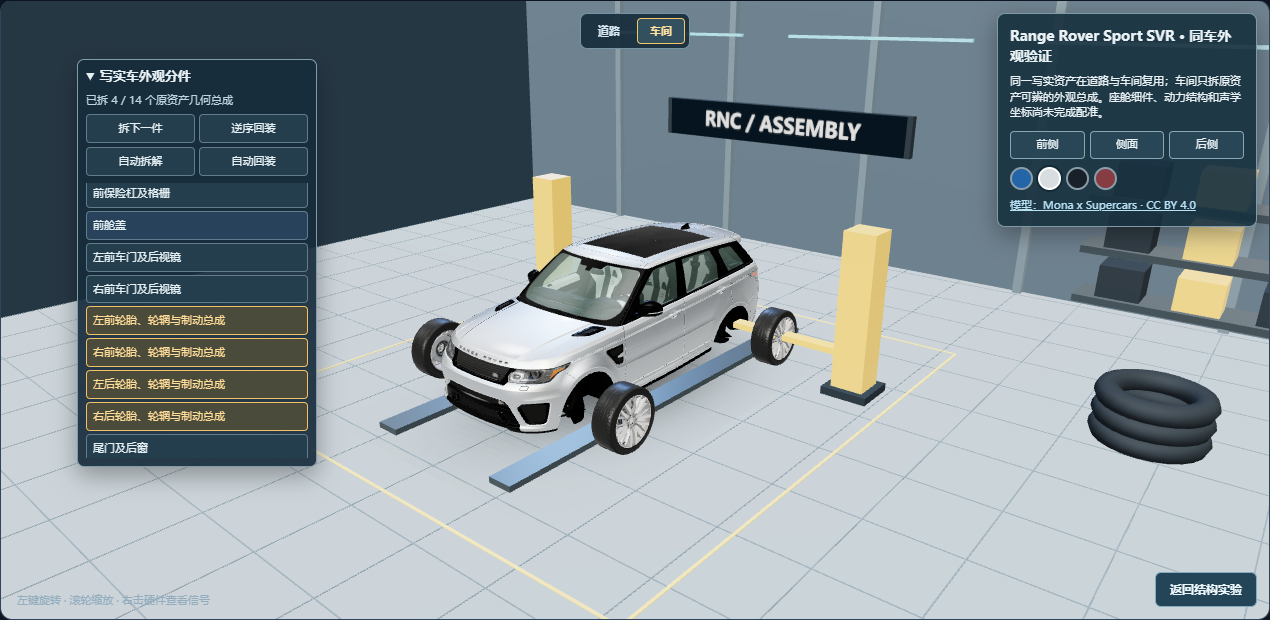
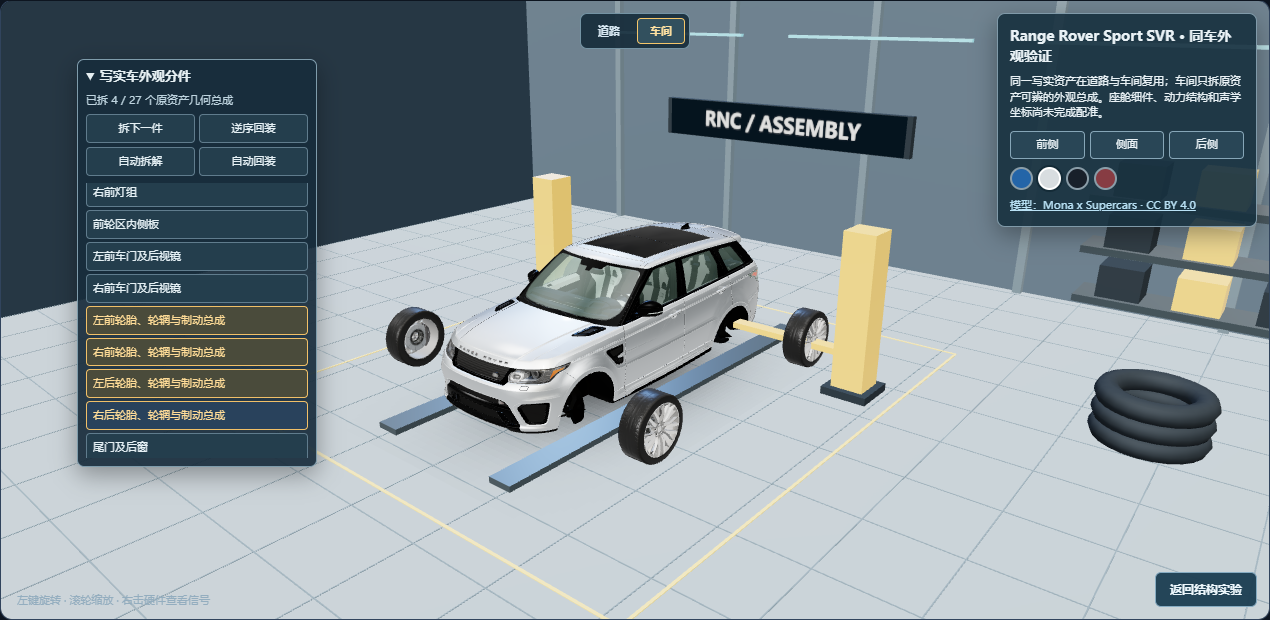
feat(a2): expose authored SUV body and engine bay groups

diff --git a/src/team-a/viewer/showroom-model.ts b/src/team-a/viewer/showroom-model.ts
@@ -36,6 +36,14 @@ export interface ShowroomModel {
   dispose(): void;
 }
 
+interface AuthoredPartSpec {
+  id: string;
+  name: string;
+  labels: readonly string[];
+  materials?: readonly string[];
+  offset: readonly [number, number, number];
+}
+
 export async function loadShowroomModel(vehicle: VehicleKind): Promise<ShowroomModel> {
   // The hybrids still use the exterior-only ICE reference until licensed,
   // powertrain-matched assets are reviewed. The UI discloses this fallback.
@@ -86,9 +94,14 @@ export async function loadShowroomModel(vehicle: VehicleKind): Promise<ShowroomM
 
   // This source has material-split meshes. Regroup only visibly distinct
   // authored assemblies; a mesh/material count must never become a part count.
-  const partSpecs = asset.id === 'range-rover' ? [
+  const partSpecs: AuthoredPartSpec[] = asset.id === 'range-rover' ? [
     { id: 'front-bumper', name: '前保险杠及格栅', labels: ['BumperF6', 'BumperChassisF6', 'Grille6'], offset: [0, 0.15, 0.85] },
     { id: 'hood', name: '前舱盖', labels: ['Hood6'], offset: [0, 0.85, 0.30] },
+    { id: 'fender-front-left', name: '左前翼子板', labels: ['FenderFL6'], offset: [0.65, 0.26, 0.18] },
+    { id: 'fender-front-right', name: '右前翼子板', labels: ['FenderFR6'], offset: [-0.65, 0.26, 0.18] },
+    { id: 'headlight-left', name: '左前灯组', labels: ['HeadLightL6'], offset: [0.40, 0.25, 0.48] },
+    { id: 'headlight-right', name: '右前灯组', labels: ['HeadLightR6'], offset: [-0.40, 0.25, 0.48] },
+    { id: 'front-inner-panels', name: '前轮区内侧板', labels: ['FendersChassisF6'], offset: [0, 0.48, 0.54] },
     { id: 'door-left', name: '左前车门及后视镜', labels: ['DoorL6', 'DoorL', 'MirrorBaseL6', 'MirrorL6'], offset: [0.86, 0.28, 0] },
     { id: 'door-right', name: '右前车门及后视镜', labels: ['DoorR6', 'DoorR', 'MirrorBaseR6', 'MirrorR6'], offset: [-0.86, 0.28, 0] },
     { id: 'wheel-fl', name: '左前轮胎、轮辋与制动总成', labels: [], offset: [0.72, 0.12, 0.12] },
@@ -97,12 +110,21 @@ export async function loadShowroomModel(vehicle: VehicleKind): Promise<ShowroomM
     { id: 'wheel-rr', name: '右后轮胎、轮辋与制动总成', labels: [], offset: [-0.72, 0.12, -0.12] },
     { id: 'tailgate', name: '尾门及后窗', labels: ['Boot6', 'Boot', 'Spoiler6'], offset: [0, 0.65, -0.55] },
     { id: 'rear-bumper', name: '后保险杠与扩散器', labels: ['BumperR6', 'BumperChassisR6', 'Diffuser6'], offset: [0, 0.14, -0.85] },
+    { id: 'taillight-left', name: '左后灯组', labels: ['TailLightL6'], offset: [0.36, 0.24, -0.48] },
+    { id: 'taillight-right', name: '右后灯组', labels: ['TailLightR6'], offset: [-0.36, 0.24, -0.48] },
+    { id: 'rear-quarters', name: '后侧围外板', labels: ['FendersR6'], offset: [0, 0.58, -0.55] },
+    { id: 'rear-inner-panels', name: '后轮区内侧板', labels: ['FendersChassisR6'], offset: [0, 0.32, -0.40] },
+    { id: 'side-skirts', name: '两侧门槛饰板', labels: ['Skirts6'], offset: [0, -0.28, 0] },
     { id: 'roof', name: '车顶面板', labels: ['Roof6'], offset: [0, 0.85, 0] },
+    { id: 'glazing', name: '车窗玻璃组', labels: ['Glass6'], offset: [0, 0.82, 0] },
+    { id: 'engine-bay', name: '机舱动力几何（原模型）', labels: [], materials: ['Chassis6/rM_Engine_Max1'], offset: [0, 0.75, 0.18] },
     { id: 'steering-wheel', name: '方向盘总成', labels: ['SteeringWheel5'], offset: [0, 0.40, 0.30] },
     { id: 'interior', name: '座舱内饰总成', labels: ['Interior5'], offset: [0, 0.72, 0] },
+    { id: 'chassis-shell', name: '车身与底盘主体网格', labels: [], materials: ['Chassis6/rM_Chassis_Max1'], offset: [0, -0.38, 0] },
     { id: 'exhaust', name: '排气总成', labels: ['Exhausts6'], offset: [0, -0.30, -0.20] },
-  ] as const : [];
+  ] : [];
   const semanticMeshes = new Map<string, THREE.Mesh[]>();
+  const materialMeshes = new Map<string, THREE.Mesh[]>();
   exterior.traverse(object => {
     const mesh = object as THREE.Mesh;
     if (!mesh.isMesh) return;
@@ -110,13 +132,18 @@ export async function loadShowroomModel(vehicle: VehicleKind): Promise<ShowroomM
     while (ancestor && !/^r[A-Za-z]/.test(ancestor.name)) ancestor = ancestor.parent;
     const label = /^r([^_]+)_/.exec(ancestor?.name ?? '')?.[1];
     if (!label) return;
+    for (const material of Array.isArray(mesh.material) ? mesh.material : [mesh.material]) {
+      const key = `${label}/${material.name}`;
+      const bucket = materialMeshes.get(key) ?? [];
+      bucket.push(mesh); materialMeshes.set(key, bucket);
+    }
     const bucket = semanticMeshes.get(label) ?? [];
     bucket.push(mesh); semanticMeshes.set(label, bucket);
   });
   const partPivots = new Map<string, { pivot: THREE.Group; origin: THREE.Vector3; offset: THREE.Vector3 }>();
   group.updateMatrixWorld(true);
   for (const spec of partSpecs) {
-    const meshes = [...spec.labels.flatMap(label => semanticMeshes.get(label) ?? []), ...(spec.id.startsWith('wheel-') ? wheelMeshes.get(spec.id.slice(6) as WheelCorner) ?? [] : [])];
+    const meshes = [...spec.labels.flatMap(label => semanticMeshes.get(label) ?? []), ...(spec.materials?.flatMap(material => materialMeshes.get(material) ?? []) ?? []), ...(spec.id.startsWith('wheel-') ? wheelMeshes.get(spec.id.slice(6) as WheelCorner) ?? [] : [])];
     if (meshes.length === 0) throw new Error(`Missing authored assembly ${spec.id}`);
     const partBounds = new THREE.Box3();
     for (const mesh of meshes) partBounds.expandByObject(mesh);
@@ -161,7 +188,7 @@ export async function loadShowroomModel(vehicle: VehicleKind): Promise<ShowroomM
     setPartProgress(id: string, progress: number) {
       const part = partPivots.get(id);
       if (!part) return;
-      part.pivot.position.copy(part.origin).addScaledVector(part.offset, THREE.MathUtils.clamp(progress, 0, 1));
+      part.pivot.position.copy(part.origin).addScaledVector(part.offset, THREE.MathUtils.clamp(progress, 0, 1) * 1.6);
     },
     setPaint(color: string) { for (const paint of paints) paint.color.set(color); },
     dispose() {

diff --git a/docs/evidence/A2/A2-FULL-016/qa-real-parts.playwright-cli.js b/docs/evidence/A2/A2-FULL-016/qa-real-parts.playwright-cli.js
@@ -28,6 +28,12 @@ async (page) => {
   await panel.getByRole('button', { name: '自动回装' }).click();
   await page.waitForTimeout(1200);
   const afterAuto = await panel.locator('p').innerText();
+  await panel.locator('[data-part="hood"]').click();
+  await panel.locator('[data-part="engine-bay"]').click();
+  await page.waitForTimeout(850);
+  const afterEngine = await panel.locator('p').innerText();
+  await page.locator('#lab-viewer').screenshot({ path: 'docs/evidence/A2/A2-FULL-016/real-workshop-engine-bay.png' });
+  await page.locator('#lab-reset').click();
   await panel.locator('[data-part="interior"]').click();
   await page.waitForTimeout(850);
   await page.locator('#lab-viewer').screenshot({ path: 'docs/evidence/A2/A2-FULL-016/real-workshop-interior.png' });
@@ -38,6 +44,16 @@ async (page) => {
   const afterFourWheels = await panel.locator('p').innerText();
   await page.locator('#lab-viewer').screenshot({ path: 'docs/evidence/A2/A2-FULL-016/real-workshop-four-wheels.png' });
   await page.locator('#lab-reset').click();
+  await panel.getByRole('button', { name: '自动拆解' }).click();
+  await page.waitForFunction(() => document.querySelector('.lab-showroom-assembly p')?.textContent?.startsWith('已拆 27'), undefined, { timeout: 30000 });
+  await page.waitForTimeout(850);
+  const afterFullDetach = await panel.locator('p').innerText();
+  await page.locator('#lab-viewer').screenshot({ path: 'docs/evidence/A2/A2-FULL-016/real-workshop-all-parts.png' });
+  await panel.getByRole('button', { name: '自动回装' }).click();
+  await page.waitForFunction(() => document.querySelector('.lab-showroom-assembly p')?.textContent?.startsWith('已拆 0'), undefined, { timeout: 30000 });
+  await page.waitForTimeout(850);
+  const afterFullRestore = await panel.locator('p').innerText();
+  await page.locator('#lab-viewer').screenshot({ path: 'docs/evidence/A2/A2-FULL-016/real-workshop-restored.png' });
   const meshAudit = await page.evaluate(async () => {
     const { loadShowroomModel } = await import('/src/team-a/viewer/showroom-model.ts');
     const model = await loadShowroomModel('ice');
@@ -80,8 +96,9 @@ async (page) => {
     await page.getByRole('button', { name: '返回四类动力教学模型和声学实验' }).click();
   }
   const externalResources = await page.evaluate(() => performance.getEntriesByType('resource').filter(resource => !resource.name.startsWith(location.origin)).map(resource => resource.name));
-  if (count !== 14 || !roadStageVisible || !markersHidden || !afterTwo.startsWith('已拆 2') || stateAcrossStages !== afterTwo || !afterOne.startsWith('已拆 1') || !afterAuto.startsWith('已拆 0') || !afterReset.startsWith('已拆 0') || !afterFourWheels.startsWith('已拆 4') || meshAudit.meshes !== 180 || meshAudit.triangles !== 74127 || meshAudit.rows.some(row => row.meshCount < 1 || row.displacement < 0.25 || (row.id.startsWith('wheel-') && row.meshCount !== 7)) || !meshAudit.resourcesDisposedOnce || !narrowClosed || !narrowUsable || fallbackPartsHidden.some(row => !row.hidden) || errors.length || externalResources.length) {
-    throw new Error(JSON.stringify({ count, roadStageVisible, markersHidden, afterTwo, stateAcrossStages, afterOne, afterAuto, afterReset, afterFourWheels, meshAudit, narrowClosed, narrowUsable, fallbackPartsHidden, errors, externalResources }));
+  const authoredCounts = { 'fender-front-left': 4, 'fender-front-right': 4, 'headlight-left': 6, 'headlight-right': 6, 'front-inner-panels': 1, 'taillight-left': 5, 'taillight-right': 5, 'rear-quarters': 5, 'rear-inner-panels': 2, 'side-skirts': 4, glazing: 6, 'engine-bay': 1, 'chassis-shell': 1 };
+  if (count !== 27 || !roadStageVisible || !markersHidden || !afterTwo.startsWith('已拆 2') || stateAcrossStages !== afterTwo || !afterOne.startsWith('已拆 1') || !afterAuto.startsWith('已拆 0') || !afterEngine.startsWith('已拆 2') || !afterReset.startsWith('已拆 0') || !afterFourWheels.startsWith('已拆 4') || !afterFullDetach.startsWith('已拆 27') || !afterFullRestore.startsWith('已拆 0') || meshAudit.meshes !== 180 || meshAudit.triangles !== 74127 || meshAudit.rows.some(row => row.meshCount < 1 || row.displacement < 0.25 || (row.id.startsWith('wheel-') && row.meshCount !== 7) || (row.id in authoredCounts && row.meshCount !== authoredCounts[row.id])) || !meshAudit.resourcesDisposedOnce || !narrowClosed || !narrowUsable || fallbackPartsHidden.some(row => !row.hidden) || errors.length || externalResources.length) {
+    throw new Error(JSON.stringify({ count, roadStageVisible, markersHidden, afterTwo, stateAcrossStages, afterOne, afterAuto, afterEngine, afterReset, afterFourWheels, afterFullDetach, afterFullRestore, meshAudit, narrowClosed, narrowUsable, fallbackPartsHidden, errors, externalResources }));
   }
-  return { count, roadStageVisible, markersHidden, afterTwo, stateAcrossStages, afterOne, afterAuto, afterReset, afterFourWheels, meshAudit, narrowClosed, narrowUsable, fallbackPartsHidden, errors, externalResources };
+  return { count, roadStageVisible, markersHidden, afterTwo, stateAcrossStages, afterOne, afterAuto, afterEngine, afterReset, afterFourWheels, afterFullDetach, afterFullRestore, meshAudit, narrowClosed, narrowUsable, fallbackPartsHidden, errors, externalResources };
 }

diff --git a/docs/evidence/A2/A2-FULL-016/qa-real-parts-production.playwright-cli.js b/docs/evidence/A2/A2-FULL-016/qa-real-parts-production.playwright-cli.js
@@ -19,6 +19,6 @@ async (page) => {
   const after=await panel.locator('p').innerText();
   const loaded=await page.evaluate(()=>performance.getEntriesByType('resource').filter(resource=>resource.name.includes('range-rover-sport-svr')&&resource.name.startsWith(location.origin)).length);
   const external=await page.evaluate(()=>performance.getEntriesByType('resource').filter(resource=>!resource.name.startsWith(location.origin)).map(resource=>resource.name));
-  if(partCount!==14||!before.startsWith('已拆 2')||after!==before||loaded!==1||errors.length||external.length)throw new Error(JSON.stringify({partCount,before,after,loaded,errors,external}));
+  if(partCount!==27||!before.startsWith('已拆 2')||after!==before||loaded!==1||errors.length||external.length)throw new Error(JSON.stringify({partCount,before,after,loaded,errors,external}));
   return {partCount,before,after,loaded,errors,external};
 }

diff --git a/开发记录.md b/开发记录.md
@@ -10,16 +10,16 @@
 同车资产结构初筛：[审计脚本及结果](docs/evidence/A2/A2-FULL-016/README.md)显示 Range Rover 171 mesh/512 node，可从父节点名提取37类候选分组，但 mesh 本身全为通用名称，转轴/真实可拆性未验；Model Y 84 mesh/86 node 的 mesh 全为通用名且无语义父节点。两款均不能直接等同参考图的28个可动分组，更不能证明内部动力结构相同。下一步先选一车人工核对可分件与锚点，再让道路/车间/声学切片改用这一套同车几何；HEV/EREV 与目标核显仍待完成。
 同批坐标核验：按现展示比例，Range Rover车顶1.770 m、Model Y仅1.416 m，而全局MIC锚点固定`y=1.65 m`，在Model Y车顶以上0.234 m；[可复现GLB坐标脚本](docs/evidence/A2/A2-FULL-016/audit-spatial-fit.mjs)和计算结果见A2证据。把GLB直接罩在旧教学车上的暂存实验还出现BEV旧格栅/门板穿出车身，故未提交这条叠模代码。正确方向是车型专属几何/物理锚点契约，与B组路径同步；A2单独移动3D标记会破坏声学一致性。需A1/集成协调者定稿共管接口，B组重验路径，A2以相同布局重建同车分件和场景。
 同批可运行切片：A2 viewer 已加入三维道路/车间，原四类教学车共用场景切换；车间可点选部件、逐件/自动拆解、暂停、逆序回装与复位。可动组分别33/33/36/37，拆下座椅/前门后MIC/门扬声器显示引导端点跟随，切场景保持状态。`pnpm check` 69/69测试、类型/边界/生产构建通过；浏览器四车、窄屏及拆装流程通过，脚本与原图见[A2本批证据](docs/evidence/A2/A2-FULL-016/README.md)。这仍是原创低多边形教学车，品牌GLB与内部尚非同车，用户图示的最终质感/精度与车型专属声学锚点未达标；A1/B/shared运行文件未改。
-同批写实车进一步推进：ICE Range Rover GLB 在道路和车间复用同一实例，14个有原资产几何归属的外观/轮端总成可拆解/回装。初步按父节点无法分开的三张合并轮系网格，经逐三角形审计确认四轮互不跨界，现按真实四轮位置拆出轮胎、制动盘、卡钳和轮辋；原171 mesh变为运行时180 mesh，总数74,127三角形不变。后门与独立座椅仍不能可靠分出。拆装、场景往返、窄屏及同源加载脚本/原图见[A2本批证据](docs/evidence/A2/A2-FULL-016/README.md)。把旧教学内部塞进该车的实渲染显示头枕与仪表台明显穿模，已否决并留失败原图。当前仅写实**外观/轮端**同车跨场景，内部、动力、四类车型和声学锚点未统一；写实模式继续隐藏物理标记，避免视觉与B组计算相矛盾。A1/B/shared运行文件未改。
+同批写实车进一步推进：ICE Range Rover GLB 在道路和车间复用同一实例，27个有原资产几何归属的外观/轮端/机舱可见网格总成可拆解/回装。三张合并轮系网格逐三角形分出四轮；前后灯、前翼子板、机舱可见网格、玻璃和车身/底盘主体按原节点/材质分组；原171 mesh变为运行时180 mesh，总数74,127三角形不变。27是美术资产分组数，**不是完整机械零件精度**；后门、独立座椅和传动/悬架件仍不能可靠分出。完整27/27自动拆出、0/27逆序回装、场景往返、窄屏及同源加载脚本/原图见[A2本批证据](docs/evidence/A2/A2-FULL-016/README.md)。把旧教学内部塞进该车的实渲染显示头枕与仪表台明显穿模，已否决并留失败原图。当前仅写实**外观/轮端/机舱可见网格**同车跨场景，独立座椅、精确动力、四类车型和声学锚点未统一；写实模式继续隐藏物理标记，避免视觉与B组计算相矛盾。A1/B/shared运行文件未改。
 
-四轮续批验证：`pnpm check` 类型/边界/69项测试/生产构建通过；开发页真实浏览器检查14组非空、四轮分别拆出4/14、道路/车间状态保持、逆序/自动回装、窄屏及三种非ICE车型隐藏写实分件，页面异常与外网请求均0；生产预览复核14组、前舱盖+左前轮跨场景保持2/14、同源GLB仅加载一次。运行时180份几何及30份材质恰好释放一次，74,127三角形未变。证据和限制见[A2-FULL-016](docs/evidence/A2/A2-FULL-016/README.md)。
+本批验证：`pnpm check` 类型/边界/69项测试/生产构建通过；开发页真实浏览器检查27组非空、四轮分别拆出4/27、机舱几何单独拆出、27/27自动拆解和0/27完整回装、道路/车间状态保持、窄屏及三种非ICE车型隐藏写实分件，页面异常与外网请求均0；生产预览复核27组、前舱盖+左前轮跨场景保持2/27、同源GLB仅加载一次。运行时180份几何及30份材质恰好释放一次，74,127三角形未变。证据和限制见[A2-FULL-016](docs/evidence/A2/A2-FULL-016/README.md)。
 
 旧阶段PR #5/#6已合入**原仓库main** `1bb8a23`；完整目标当前整合在 fork/main 和[A1/整合草稿PR #23](https://github.com/KnowCooker/RNC_3D_SIMULATION/pull/23)，A2新独立进度在[草稿PR #24](https://github.com/KnowCooker/RNC_3D_SIMULATION/pull/24)。旧完整目标阶段PR #7～#22已关闭为被当前整合提交包含的历史批次，并非合入原仓库main。#20的源码已在 fork/main 和 #24，旧 PR 已关闭、旧远端分支已删除；fork 只保留 main、A1、A2 当前三分支。[当前分支与备份](docs/coordination/CURRENT_BRANCHES.md)记录接续入口。各批已验证源码SHA仍由其证据报告固定。两端读取[协作入口](docs/coordination/README.md)、[A1](docs/coordination/A1.md)、[A2](docs/coordination/A2.md)，继续按各自目录开发。
 
 | 责任 | 本轮已有实现 | 实际验证 | 下一步 |
 | --- | --- | --- | --- |
 | A1 | 原实验界面/16秒回放、持续仿真与试听；#21暂停态移动场重查；#23有界音频预取质量改进 | #23`pnpm check`67/67；同脚本1.05秒阻塞/首次三维操作0补缓冲，[固定候选1204.22秒长稳](docs/evidence/A1/A1-FULL-008/stability/README.md)15项门槛通过；[当前同机离线候选](docs/evidence/A1/A1-FULL-008/offline/README.md)45/45检查通过 | 真实后台、实物音画、目标设备、第二机断网及正式交付 |
-| A2 | #7四类结构/真实截面；#8–#20分批视觉/结构/声场检视；#24两款写实外观参考、原创教学车道路/车间切片、ICE同资产14个真实外观/轮端总成拆装 | 两款资产许可/离线守护；四车33/33/36/37组教学拆装与ICE 14组真实资产回归；本批 `pnpm check` 结果见下方记录 | 写实车外观/座舱/内部/声学同车配准、其余三类合规高质资产与真分件、目标核显与全应用同版回归 |
+| A2 | #7四类结构/真实截面；#8–#20分批视觉/结构/声场检视；#24两款写实外观参考、原创教学车道路/车间切片、ICE同资产27个可核实几何组拆装 | 两款资产许可/离线守护；四车33/33/36/37组教学拆装与ICE 27组真实资产回归；本批 `pnpm check` 结果见下方记录 | 写实车外观/座舱/内部/声学同车配准、其余三类合规高质资产与真分件、目标核显与全应用同版回归 |
 | B | 新持续处理器保留源、路径、FxLMS状态；固定内存历史；原批量与任意点场保留 | B组23项含6项流式数值；首16秒逐样本等同批量，跨块/越环/场前史及失败状态通过 | 更多工况与目标设备验证，配合持续运行质量 |
 | 集成 | Worker持续协议、真实场绝对时间、取消/错误隔离；目录边界保持；INTEGRATION-FULL-021组合 A2 #20 + A1 #21 | `pnpm check` 67/67；同版四车真实场/改制/实时暂停及[组合版1210.65秒长稳](docs/evidence/full-lab/integration-021/stability/README.md)15项门槛通过；首实时run有2次补缓冲 | 试听质量、后续最终版长稳、设备/包/录像，按依赖顺序审查PR |
 

diff --git a/docs/evidence/A2/A2-FULL-016/README.md b/docs/evidence/A2/A2-FULL-016/README.md
@@ -19,11 +19,11 @@
 
 ## 同批续进：同一写实 ICE 外观跨道路与车间
 
-Range Rover 外观资产现在在道路、车间复用**同一个加载实例**。车间列出原 GLB 中可核实的 14 个总成：前/后保险杠、前舱盖、左右前门及后视镜、四个独立轮端、尾门及后窗、车顶、方向盘、座舱内饰整体、排气整体。GLB 原始 171 个 mesh 主要按材质切分，不是 171 个零件。轮胎、制动盘、卡钳虽各合为一个 mesh，但逐三角形审计发现四个空间分离的轮位：每轮分别有 360、256、148 个三角形，没有三角形跨越前后/左右中线；16 个轮辋 mesh 也能按真实空间位置各归 4 个。加载器保留原顶点属性，把三张合并网格的三角形按轮位重组，四个轮端各含 7 个原资产来源网格，不复制单轮几何，也不增加三角形。后侧围网格仍不是各后门，座椅也不能从复杂内饰网格可靠分出。14 组支持单件、顺序自动拆解、暂停、逆序回装及场景切换保留状态。BEV 资产尚无可核实分组；HEV/EREV 仍只是 Range Rover 外观参考，均不展示这 14 组为本车型真实结构。
+Range Rover 外观资产现在在道路、车间复用**同一个加载实例**。车间列出原 GLB 中可核实的 27 个几何总成：前/后保险杠、前舱盖、左右前翼子板与灯组、前后轮区内侧板、左右前门、四个独立轮端、尾门、左右后灯、后侧围、门槛、车顶、车窗玻璃、机舱动力网格、方向盘、座舱内饰整体、车身/底盘主体网格和排气。它们是**这份美术资产的可辨几何分组**，不是 27 个经原厂零件目录核对的机械总成。GLB 原始 171 个 mesh 主要按材质切分，不是 171 个零件。轮胎、制动盘、卡钳虽各合为一个 mesh，但逐三角形审计发现四个空间分离的轮位：每轮分别有 360、256、148 个三角形，没有三角形跨越前后/左右中线；16 个轮辋 mesh 也能按真实空间位置各归 4 个。加载器保留原顶点属性，把三张合并网格的三角形按轮位重组，四个轮端各含 7 个原资产来源网格，不复制单轮几何，也不增加三角形。机舱动力网格按 `Chassis6` 父节点与 `rM_Engine_Max1` 材质双重归属提取，避免误带前舱盖/尾门中同材质的网格。后侧围不是可核实的各后门，座椅也不能从复杂内饰网格可靠分出。27 组支持单件、顺序自动拆解、暂停、逆序回装及场景切换保留状态。BEV 资产尚无可核实分组；HEV/EREV 仍只是 Range Rover 外观参考，均不展示这 27 组为本车型真实结构。
 
-[开发页实测脚本](qa-real-parts.playwright-cli.js)和[结果](real-parts-browser-result.json)检查：原资产 171 mesh 在轮系拆分后为 180 个渲染 mesh，仍为 74,127 个三角形；运行中的 180 份几何和 30 份材质均恰好释放一次。14 组各有非空真实子网格，四个轮端各 7 个。道路→车间时同一外观，前舱盖与左前门拆出后状态为2/14，往返道路仍为2/14，手动逆序与自动回装到0/14；四轮分别拆出达4/14并可复位。写实模式物理标记仍隐藏，页面异常/外网请求0；360px窗口拆装面板收起后可打开，HEV/EREV/BEV不显示这14组。实渲染原图：[道路后视](real-road-ice.png)、[车间合拢](real-workshop-assembled.png)、[前舱盖与车门拆出](real-workshop-two-parts.png)、[四轮端拆出](real-workshop-four-wheels.png)、[内饰整体移出](real-workshop-interior.png)、[窄屏车间](real-workshop-narrow.png)。[生产预览脚本](qa-real-parts-production.playwright-cli.js)重查同源GLB按需加载及跨场景拆件状态。
+[开发页实测脚本](qa-real-parts.playwright-cli.js)和[结果](real-parts-browser-result.json)检查：原资产 171 mesh 在轮系拆分后为 180 个渲染 mesh，仍为 74,127 个三角形；运行中的 180 份几何和 30 份材质均恰好释放一次。27 组各有非空真实子网格，四个轮端各 7 个。道路→车间时同一外观，前舱盖与左前门拆出后状态为2/27，往返道路仍为2/27，手动逆序与自动回装到0/27；四轮分别拆出达4/27并可复位；完整自动拆解到27/27再逆序回装到0/27。写实模式物理标记仍隐藏，页面异常/外网请求0；360px窗口拆装面板收起后可打开，HEV/EREV/BEV不显示这27组。实渲染原图：[道路后视](real-road-ice.png)、[车间合拢](real-workshop-assembled.png)、[前舱盖与车门拆出](real-workshop-two-parts.png)、[机舱网格拆出](real-workshop-engine-bay.png)、[四轮端拆出](real-workshop-four-wheels.png)、[27组拆出](real-workshop-all-parts.png)、[完整回装](real-workshop-restored.png)、[内饰整体移出](real-workshop-interior.png)、[窄屏车间](real-workshop-narrow.png)。[生产预览脚本](qa-real-parts-production.playwright-cli.js)重查同源GLB按需加载及跨场景拆件状态。
 
-试把现有教学车的外壳/轮系隐藏、内部与声学点放进 Range Rover 时，浏览器[原始配准失败图](rejected-shell-overlay.png)显示教学头枕穿出车顶，教学仪表台压在前舱盖外，MIC不贴头枕；因此**未把两套资产简单叠加进产品**。进一步检查内饰主体发现它由大量小几何岛混合而成，没有可直接验证的独立五座语义分组。当前写实资产的 14 组仍只覆盖**可核实的外观、轮端与整体内饰**，不是完整机械/电驱结构；与四类教学模型、RNC物理锚点和算法尚未统一，仍不能按用户三图最终签收。下一步须按写实车尺寸制作并核验座椅/底盘/动力件及安装位，再由A1/集成协调者与B组同步车型布局契约和数值重验。
+试把现有教学车的外壳/轮系隐藏、内部与声学点放进 Range Rover 时，浏览器[原始配准失败图](rejected-shell-overlay.png)显示教学头枕穿出车顶，教学仪表台压在前舱盖外，MIC不贴头枕；因此**未把两套资产简单叠加进产品**。进一步检查内饰主体发现它由大量小几何岛混合而成，没有可直接验证的独立五座语义分组。JLR 的[2014年原厂发布资料](https://media.jlr.com/corporate/news/2014/08/pebble-beach-debut-new-range-rover-sport-svr-fastest-most-powerful-land-rover-ever)与[车型规格册](https://www.landrover.co.uk/content/dam/lrdx/pdfs/uk/brochures/misc/RANGE-ROVER-SPORT-SVR_tcm295-140483.pdf)确认该代 SVR 为纵置 5.0 升机械增压 V8、ZF 8HP70 八速自动变速箱、四轮驱动；**原 GLB 并非原厂 CAD**，本批只把其中可见的机舱动力表面单列，未核实其缸体、变速箱、传动轴、悬架的精确构形。当前写实资产的 27 组不是完整机械/电驱结构；与四类教学模型、RNC物理锚点和算法尚未统一，仍不能按用户三图最终签收。下一步须按写实车尺寸制作并核验独立座椅、底盘/传动/悬架件及安装位，再由A1/集成协调者与B组同步车型布局契约和数值重验。
 
 用户要求优先提升车辆的真实质感，并允许直接找现成模型。本批在既有四类教学 SUV 旁增加一个独立外观欣赏模式；**没有**用品牌模型替换教学车的机械/电驱结构或声学坐标。外观模式隐藏物理标记、声场和剖面讲解；返回后原教学模型及交互恢复。更换动力类型也自动返回教学视图，避免把真实品牌外观当成所选动力架构的实车。
 

diff --git a/docs/coordination/A2_UNIFIED_3D_SCENE.md b/docs/coordination/A2_UNIFIED_3D_SCENE.md
@@ -11,7 +11,7 @@
 
 ## 资产现状与第一道门槛
 
-当前 #24 的 Range Rover GLB 有 171 mesh、512 node，可从父节点名初筛 37 类车门、内饰、轮系和底盘等前缀，但实际 mesh 节点仍是 `Object_N`，分件转轴/几何待人工核验；Tesla Model Y 有 84 mesh、86 node，84 个 mesh 节点全部是通用 `Object_N`，没有可用的语义前缀。用户截图中的 28 个可动分组是质量参照，不能把材质网格数当作拆件数。两者在当前代码中只作独立展示，未与四类教学车的部件、门扬声器或声场锚点配准，不能直接当成已满足同车拆装。HEV/EREV 仍无独立合规高质资产。可复现审计脚本、来源和许可见 [A2证据](../evidence/A2/A2-FULL-016/README.md)。
+当前 #24 的 Range Rover GLB 原始文件有 171 mesh、512 node，可从父节点名初筛 37 类车门、内饰、轮系和底盘等前缀，但实际 mesh 节点仍是 `Object_N`；经过人工归属与四轮三角形审计后，已有下述27个可逆美术几何组。Tesla Model Y 有 84 mesh、86 node，84 个 mesh 节点全部是通用 `Object_N`，尚无可核实的语义分组。用户截图中的 28 个可动分组是质量参照，不能把美术分组数或材质网格数当作真实机械零件精度。Range Rover 虽已在道路/车间复用同一实例，仍未与四类教学车的部件、门扬声器或声场锚点配准；Model Y 仍仅作独立外观展示。HEV/EREV 仍无独立合规高质资产。可复现审计脚本、来源和许可见 [A2证据](../evidence/A2/A2-FULL-016/README.md)。
 
 [坐标审计脚本](../evidence/A2/A2-FULL-016/audit-spatial-fit.mjs)按当前展示规范把两车长度缩至4.8 m并落地：Range Rover 包围盒高度1.770 m，Model Y 为1.416 m；共享契约的四个MIC固定在 `y=1.65 m`，因此在Model Y车顶以上至少0.234 m。当前B组 `paths.ts`、`index.ts`、`stream.ts` 直接使用同一组 `MIC_POSITIONS`、`SPEAKER_POSITIONS`、`SOURCE_POSITIONS`。这不是简单改画面可以解决的：需要各车型真实几何锚点与物理路径共享的**车型布局契约**，由集成协调者/B组同步修改和数值重验。临时将GLB与旧教学件直接叠放也已实渲染否决：BEV前格栅/门板穿出新车壳，MIC浮在车顶外。
 
@@ -24,6 +24,6 @@
 5. 保存四车的道路、车间合拢、逐件拆解、回装及声学视图的同版本原图/录像；固定机位与用户三图作人工质量对照，再测目标核显与完整页稳定性。当前独立 showroom 截图不能充当该证据。
 
 当前进展：第3步已有可运行的三维道路、车间与原创教学车的逐件/自动拆装切片，四车型可动组 33/33/36/37，场景切换保持状态；[运行证据](../evidence/A2/A2-FULL-016/README.md)有脚本及原图。它验证场景和操作流，但**第1、2步的同车高质资产与锚点尚未通过**，故不将该切片判作同车终点，也不解除第4、5步的协调和验收。
-同批写实纵向切片：ICE Range Rover 外观已复用同一 GLB 实例于道路和车间，车间用原资产真实网格组成 14 个可拆总成。四轮的轮胎、制动盘、卡钳已按各自原始三角形和轮辋真实位置拆成四个独立轮端，整车三角形数不变；后门、独立座椅、动力件和RNC点位尚未配准。两套独立切片尚需收束为**一套同车外壳、内部和物理布局**；不能用任何一套单独的通过结果替代终点。
+同批写实纵向切片：ICE Range Rover 外观已复用同一 GLB 实例于道路和车间，车间用原资产真实网格组成 27 个可拆几何总成，完整自动拆解/回装已验证。四轮的轮胎、制动盘、卡钳已按各自原始三角形和轮辋真实位置拆成四个独立轮端，整车三角形数不变；前后灯、前翼子板、机舱可见网格、玻璃、车身/底盘主体等另按原资产节点/材质验证归属。27 是**美术资产分组数**，不等于参考图或原厂机械零件精度；后门、独立座椅、传动/悬架件和RNC点位尚未配准。两套独立切片尚需收束为**一套同车外壳、内部和物理布局**；不能用任何一套单独的通过结果替代终点。
 
 跨组接口需求（待 A1/集成协调者与B组定稿）：`sceneMode = road | workshop | acoustic`、当前车型与部件拆装状态、选中部件、自动演示进度；以及每车型轮端/参考/门扬声器/头枕MIC的规范几何与物理锚点。A2按真实资产导出布局，B组用同一布局计算传播路径和误差信号，集成协调者负责版本化契约；展示变换不得写回物理坐标。现有 `LabConfig`、`FieldFrame` 和 viewer 回调在此阶段不擅自改动。

diff --git a/docs/coordination/A2.md b/docs/coordination/A2.md
@@ -18,7 +18,7 @@
 - 接续定位：当前 A2 唯一分支 `a/a2-full-016-showroom`，草稿 PR #24；准确最新 SHA 以 PR HEAD 为准。允许范围仍为 viewer、A2 测试/证据、本页和根日志；下一步优先核验 HEV/EREV 合规高质模型、四车真实感和指定核显，不能沿用本机 RTX 4070 结果代替目标设备。
 - 同批性能续进：viewer内部缓冲现按CSS面积/DPR限制为≤1280×720等效像素，保留宽高比、标签和拾取；1920×1080完整页实测CSS 1588×618、内部1538×598，模拟2×DPR仍在预算内；窄窗标记与REF FL点选通过。[脚本与原图](../evidence/A2/A2-FULL-016/README.md)随PR保存。只是为指定核显验收做预算准备，**尚未**在指定核显上测≥30fps。HEV/EREV候选中RAV4 Hybrid/Li Auto L7的高细节版本是非商业许可，未纳入包；其他转载文件的原始授权链未核实，不直接采用。
 - 同批场景/拆装续进：viewer 私有场景现有三维海岸道路与车间，同一原创教学车在两处切换；车间可手动/自动逐件拆装、暂停和逆序回装，四车型组数33/33/36/37，标记显示随安装件移动。本机 Chromium 四车型场景、拆装/复位、360px窄屏及原写实外观入口已复核，[脚本与原图](../evidence/A2/A2-FULL-016/README.md)见证据。它仍未把品牌 GLB 与教学结构合为同车；A1/B/shared接口未改，车型专属几何与声学锚点须与集成协调者/B组定稿后再接入。
-- 同批写实资产续进：ICE Range Rover 的**同一 GLB**已在三维道路/车间复用，车间对原网格中可辨的前舱盖、左右前门、尾门、四个独立轮端等14个总成做可逆拆装。原始171 mesh中的三张合并轮系网格按实际三角形拆分，运行时为180 mesh，74,127三角形不变；每轮端另含原轮辋四张网格。后门及独立座椅仍不能可靠分出，叠放旧教学内部失败图显示头枕/仪表台穿模，未提交叠模方案。[原图、分件回归及局限](../evidence/A2/A2-FULL-016/README.md)可接续。后续仍须重建同车内部与专属声学物理坐标，当前写实模式不显示物理标记；HEV/EREV与BEV未有同等级真分件。
+- 同批写实资产续进：ICE Range Rover 的**同一 GLB**已在三维道路/车间复用，车间对原网格中可辨的前舱盖、左右前门、四个独立轮端、前后灯组、机舱可见网格、玻璃及车身/底盘主体等27个几何总成做可逆拆装，并完成27/27自动拆出、0/27逆序回装浏览器验证。原始171 mesh中的三张合并轮系网格按实际三角形拆分，运行时为180 mesh，74,127三角形不变；每轮端另含原轮辋四张网格。27是美术资产分组，不是原厂零件数量。后门、独立座椅、传动/悬架件仍不能可靠分出，叠放旧教学内部失败图显示头枕/仪表台穿模，未提交叠模方案。[原图、分件回归及局限](../evidence/A2/A2-FULL-016/README.md)可接续。后续仍须补建/核验同车内部与专属声学物理坐标，当前写实模式不显示物理标记；HEV/EREV与BEV未有同等级真分件。
 
 ### A2-FULL-015 四车型共用侧围、门槛与轮眉连续性
 
